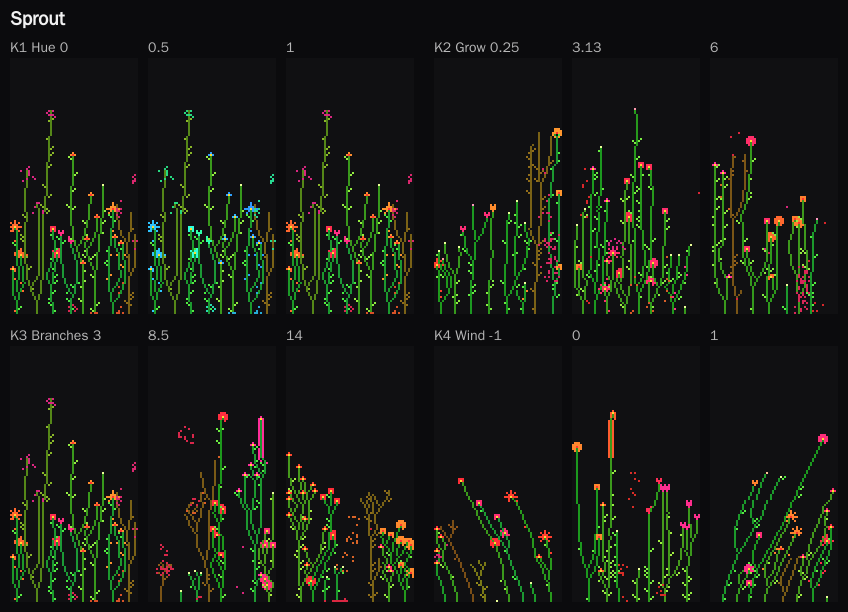
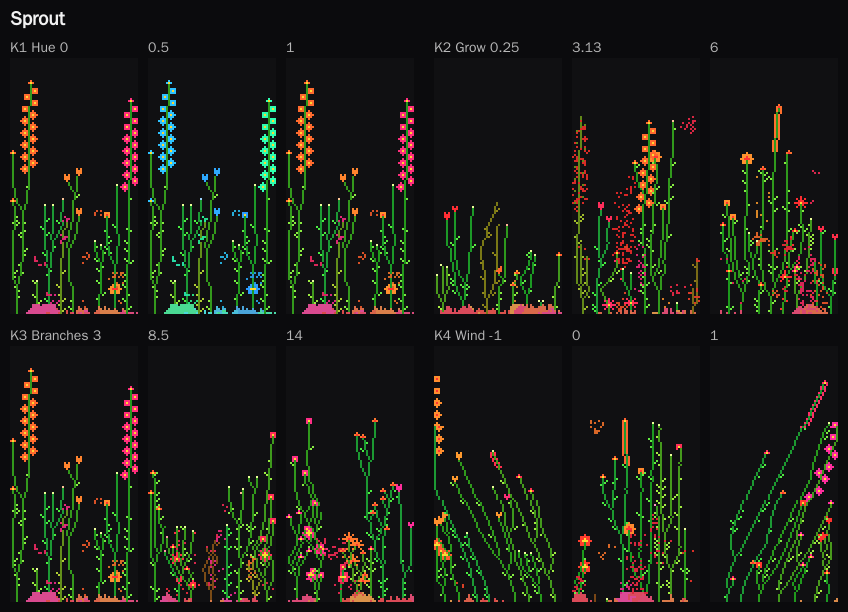
Sprout 꽃밭에 접시꽃 두 그루가 서고 떨어진 꽃잎이 발치에 쌓인다
Claude-Session: https://claude.ai/code/session_01UTfnVJ2ameZqPGMa9UdhRk

diff --git a/incoming/pattern-study/patterns/sprout.js b/incoming/pattern-study/patterns/sprout.js
@@ -22,7 +22,10 @@ const PLANTS = 18;
 // A plant can stand most of the way up the tall panel, so it needs room for more LEDs.
 const PIX = 720;
 const TIPS = 96;
-const FALL = 64;
+// Petals in the air and on the ground. Fallen ones lie in drifts up to PILE
+// LEDs deep at the foot of the garden.
+const FALL = 320;
+const PILE = 5;
 
 const STEM = 1;
 const LEAF = 2;
@@ -30,25 +33,31 @@ const BUD = 3;
 const PETAL = 4;
 const HEART = 5;
 
-// Four kinds of plant: a daisy on a tall stem, a tulip on a straight one, a
-// branchy aster with many small heads, and a lupine whose top grows florets.
+// Five kinds of plant: a daisy on a tall stem, a tulip on a straight one, a
+// branchy aster with many small heads, a lupine whose top grows florets, and
+// a hollyhock that stands near the top of the panel with cups up its spike.
 const DAISY = 0;
 const TULIP = 1;
 const ASTER = 2;
 const LUPINE = 3;
+const HOLLYHOCK = 4;
 // How much a stem wanders off its line.
-const KIND_WOBBLE = [0.1, 0.04, 0.2, 0.06];
-const KIND_LEN = [74, 44, 40, 78];
-const KIND_SPREAD = [42, 30, 34, 36];
-const KIND_FORK = [0.12, 0.05, 0.3, 0.07];
-const KIND_LEAF = [0.12, 0.3, 0.22, 0.16];
+const KIND_WOBBLE = [0.1, 0.04, 0.2, 0.06, 0.03];
+const KIND_LEN = [74, 44, 40, 78, 94];
+const KIND_SPREAD = [42, 30, 34, 36, 22];
+const KIND_FORK = [0.12, 0.05, 0.3, 0.07, 0.02];
+const KIND_LEAF = [0.12, 0.3, 0.22, 0.16, 0.3];
+// The top of a hollyhock stem, in LEDs, that carries flowers.
+const SPIKE = 44;
 
 // Flowers as offsets from the tip, a big one for the main stem and a small
-// one for side shoots.
+// one for side shoots. The big daisy is seven LEDs across around a heart of
+// five (HEART_PLUS).
 const BIG = [
-  [-1, -2, 0, -2, 1, -2, -2, -1, -1, -1, 0, -1, 1, -1, 2, -1, -2, 0, -1, 0, 1, 0, 2, 0, -2, 1, -1, 1, 1, 1, 2, 1, -1, 2, 1, 2],
+  [0, -3, -2, -2, -1, -2, 0, -2, 1, -2, 2, -2, -2, -1, -1, -1, 1, -1, 2, -1, -3, 0, -2, 0, 2, 0, 3, 0, -2, 1, -1, 1, 1, 1, 2, 1, -2, 2, -1, 2, 0, 2, 1, 2, 2, 2, 0, 3],
   [0, -1, -1, -1, 1, -1, -1, -2, 0, -2, 1, -2, -1, -3, 1, -3],
   [0, -1, -1, -1, 1, -1, -1, 0, 1, 0, -1, 1, 1, 1, 0, -2, 0, -3, -2, -2, 2, -2, -2, 0, -3, 0, 2, 0, 3, 0, -2, 2, 2, 2],
+  [-1, 0, 1, 0, 0, -1],
   [-1, 0, 1, 0, 0, -1],
 ];
 const SMALL = [
@@ -56,7 +65,17 @@ const SMALL = [
   [0, -1, -1, -1, 1, -1, -1, -2, 1, -2],
   [-1, 0, 1, 0, 0, -1],
   [-1, 0, 1, 0, 0, -1],
+  [-1, 0, 1, 0, 0, -1],
 ];
+const HEART_PLUS = [-1, 0, 1, 0, 0, -1, 0, 1];
+// A hollyhock cup, around a heart two LEDs out from the stem, for a cup on
+// the right; one on the left mirrors it. The open cups low on the spike are
+// wide, the young ones near its top are small.
+const CUP = [-1, -1, 0, -1, 1, -1, -1, 0, 1, 0, -1, 1, 0, 1, 1, 1, 0, -2, 0, 2, 2, 0];
+const YOUNG_CUP = [-1, -1, 0, -1, 1, -1, -1, 0, 1, 0, -1, 1, 0, 1, 1, 1];
+// budGen at or past this marks a hollyhock cup: +1 for the right side, +2 for
+// a wide one. A stem's generation stays below Branches, so it never gets here.
+const CUP_GEN = 100;
 
 const GROWING = 1;
 const HOLDING = 2;
@@ -126,11 +145,19 @@ function sow(p) {
   if (slot < 0) return false;
   for (let tries = 0; tries < 8; tries++) {
     const x = 3 + Math.floor(Math.random() * (W - 6));
+    // A plant that is withering or going back into the ground already makes
+    // room: a seed may come up beside it, where its leaves are not in the way.
     let near = false;
-    for (let i = 0; i < PLANTS; i++) if (p.state[i] && Math.abs(p.baseX[i] - x) < 6) near = true;
-    if (near || !room(p, x, H - 1)) continue;
+    for (let i = 0; i < PLANTS; i++) if ((p.state[i] === GROWING || p.state[i] === HOLDING) && Math.abs(p.baseX[i] - x) < 6) near = true;
+    let clear = !near;
+    for (let y = H - 1; clear && y > H - 12; y--) clear = room(p, x, y);
+    if (!clear) continue;
+    // Two hollyhocks stand in the garden whenever there is room for them; the
+    // rest is a mix.
+    let tall = 0;
+    for (let i = 0; i < PLANTS; i++) if ((p.state[i] === GROWING || p.state[i] === HOLDING) && p.style[i] === HOLLYHOCK) tall++;
     const r = Math.random();
-    const kind = r < 0.3 ? DAISY : r < 0.52 ? TULIP : r < 0.72 ? ASTER : LUPINE;
+    const kind = tall < 2 ? HOLLYHOCK : r < 0.32 ? DAISY : r < 0.54 ? TULIP : r < 0.76 ? ASTER : LUPINE;
     p.state[slot] = GROWING;
     p.baseX[slot] = x;
     p.count[slot] = 0;
@@ -150,10 +177,28 @@ function sow(p) {
 
 function bloom(p, plant, x, y, gen) {
   const style = p.style[plant];
+  if (gen >= CUP_GEN) {
+    // The bud beside the stem opens into a cup whose heart sits one LED further out.
+    const side = (gen - CUP_GEN) & 1 ? 1 : -1;
+    const shape = (gen - CUP_GEN) & 2 ? CUP : YOUNG_CUP;
+    const cx = x + side;
+    p.kind[y * W + x] = PETAL;
+    p.buds[plant]--;
+    if (free(p, cx, y)) put(p, plant, cx, y, HEART);
+    for (let n = 0; n < shape.length; n += 2) {
+      const px = cx + shape[n] * side;
+      const py = y + shape[n + 1];
+      if (free(p, px, py)) put(p, plant, px, py, PETAL);
+    }
+    return;
+  }
   // A tulip has no heart showing.
   p.kind[y * W + x] = style === TULIP ? PETAL : HEART;
   p.buds[plant]--;
   const shape = gen === 0 || Math.random() < 0.3 ? BIG[style] : SMALL[style];
+  if (style === DAISY && shape === BIG[DAISY]) {
+    for (let n = 0; n < HEART_PLUS.length; n += 2) if (free(p, x + HEART_PLUS[n], y + HEART_PLUS[n + 1])) put(p, plant, x + HEART_PLUS[n], y + HEART_PLUS[n + 1], HEART);
+  }
   for (let n = 0; n < shape.length; n += 2) {
     const px = x + shape[n];
     const py = y + shape[n + 1];
@@ -226,7 +271,24 @@ function stepTip(p, t, wind) {
     for (let side = -1; side <= 1; side += 2) {
       if (free(p, nx + side, ny + 1) && free(p, nx + side * 2, ny + 1)) put(p, plant, nx + side, ny + 1, PETAL);
     }
-  } else if (p.tipSince[t] > 1 && Math.random() < KIND_LEAF[style] * (style === TULIP && ny < H - 18 ? 0.2 : 1)) {
+  } else if (style === HOLLYHOCK && p.tipGen[t] === 0 && p.tipLeft[t] < SPIKE) {
+    // Up the spike a bud every third LED, one side then the other. They open
+    // from the bottom up, as the stem passes them.
+    const left = p.tipLeft[t];
+    const side = ((left / 3) | 0) & 1 ? 1 : -1;
+    const bx = nx + side;
+    if (left % 3 === 0 && left > 2 && free(p, bx, ny + 1) && free(p, bx + side, ny + 1)) {
+      put(p, plant, bx, ny + 1, BUD);
+      const c = (ny + 1) * W + bx;
+      p.budAt[c] = p.budTime * (0.8 + Math.random() * 0.5);
+      p.budGen[c] = CUP_GEN + (side > 0 ? 1 : 0) + (left > 14 ? 2 : 0);
+      p.buds[plant]++;
+    }
+  } else if (
+    p.tipSince[t] > 1 &&
+    // A tulip keeps its leaves low, and a hollyhock its big ones.
+    Math.random() < KIND_LEAF[style] * (style === TULIP && ny < H - 18 ? 0.2 : style === HOLLYHOCK && ny < H - 48 ? 0.15 : 1)
+  ) {
     // Now and then a leaf beside the stem, rising away from it.
     const side = Math.random() < 0.5 ? -1 : 1;
     const lx = nx + side;
@@ -267,6 +329,38 @@ function release(p, x, y, hue) {
     p.fSway[f] = Math.random() * 6.28;
     return;
   }
+}
+
+// A petal that lands rolls off a drift onto a lower neighbour, downwind
+// first, so the drifts slope like sand. On a full drift it blows away.
+function settle(p, f, wind, slow) {
+  const down = wind < 0 ? -1 : 1;
+  let x = Math.floor(p.fx[f]);
+  for (let roll = 0; roll < W; roll++) {
+    const a = x + down;
+    const b = x - down;
+    if (a >= 0 && a < W && p.pile[a] + 1 < p.pile[x]) x = a;
+    else if (b >= 0 && b < W && p.pile[b] + 1 < p.pile[x]) x = b;
+    else break;
+  }
+  if (p.pile[x] >= PILE) {
+    p.fState[f] = 0;
+    return;
+  }
+  p.fx[f] = x + 0.5;
+  p.fy[f] = H - 0.5 - p.pile[x];
+  p.pile[x]++;
+  p.fState[f] = 2;
+  p.fRest[f] = (12 + Math.random() * 14) * slow;
+}
+
+// A fallen petal goes into the soil, and the ones lying on it settle a LED.
+function sink(p, f) {
+  const x = Math.floor(p.fx[f]);
+  const y = p.fy[f];
+  p.fState[f] = 0;
+  p.pile[x]--;
+  for (let g = 0; g < FALL; g++) if (p.fState[g] === 2 && Math.floor(p.fx[g]) === x && p.fy[g] < y) p.fy[g] += 1;
 }
 
 function step(p, dt, k) {
@@ -357,15 +451,14 @@ function step(p, dt, k) {
       p.fSway[f] += dt * 2.2;
       p.fy[f] += dt * (3 + 1.5 * Math.sin(p.fSway[f] * 0.7));
       p.fx[f] += dt * (wind * 5 + Math.sin(p.fSway[f]) * 2.5);
-      if (p.fy[f] >= H - 0.5) {
-        p.fy[f] = H - 0.5;
-        p.fState[f] = 2;
-        p.fRest[f] = (1.5 + Math.random() * 2) * slow;
+      if (p.fx[f] < 0 || p.fx[f] >= W) {
+        p.fState[f] = 0;
+        continue;
       }
-      if (p.fx[f] < 0 || p.fx[f] >= W) p.fState[f] = 0;
+      if (p.fy[f] >= H - 0.5 - p.pile[Math.floor(p.fx[f])]) settle(p, f, wind, slow);
     } else {
       p.fRest[f] -= dt;
-      if (p.fRest[f] <= 0) p.fState[f] = 0;
+      if (p.fRest[f] <= 0) sink(p, f);
     }
   }
 
@@ -413,6 +506,7 @@ export function setup(params) {
   p.fState = new Uint8Array(FALL);
   p.fRest = new Float32Array(FALL);
   p.fSway = new Float32Array(FALL);
+  p.pile = new Uint8Array(W);
   p.offset = new Int8Array(H);
   p.col = new Float32Array(3);
   p.lit = 0;
@@ -491,7 +585,8 @@ export function draw(display, params, time) {
 
   for (let f = 0; f < FALL; f++) {
     if (!p.fState[f]) continue;
-    hsv(p.fHue[f], 0.82, 0.85, col, 0);
+    // A fallen petal is paler than one in the air. Darker, an orange one read as brown.
+    hsv(p.fHue[f], p.fState[f] === 1 ? 0.82 : 0.66, 0.85, col, 0);
     display.setPixel(Math.floor(p.fx[f]), Math.floor(p.fy[f]), col[0], col[1], col[2]);
   }
 }
